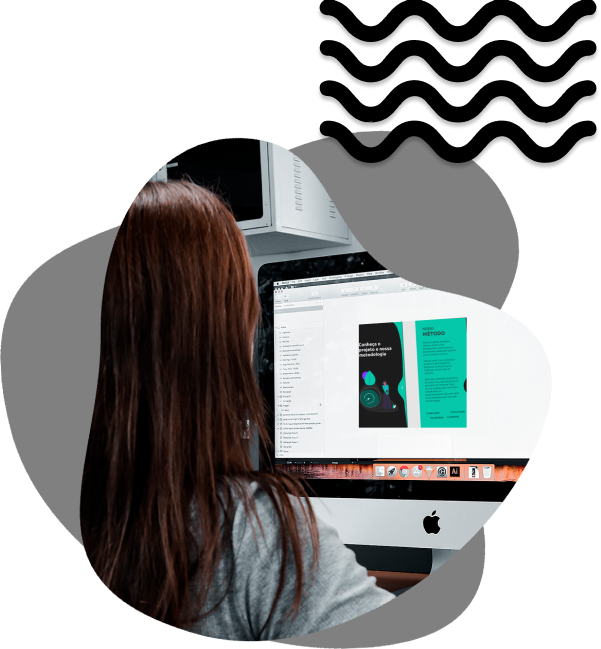
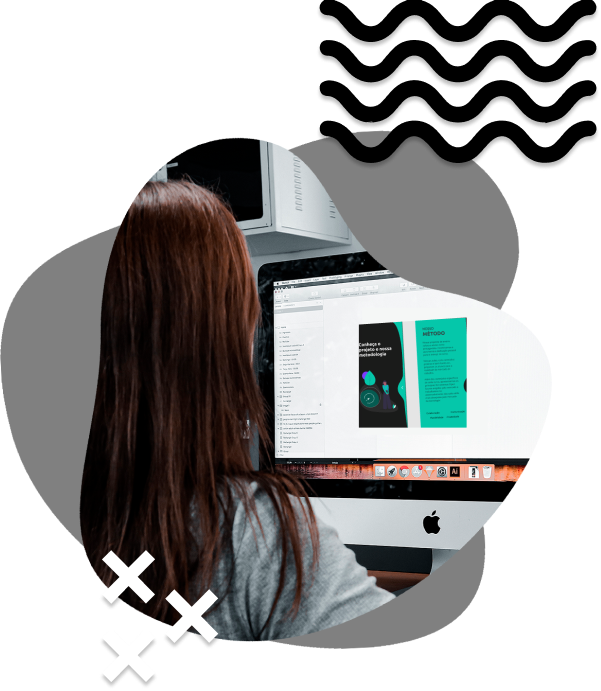
refac: styles section courses

diff --git a/src/components/modules/AboutUs/components/SectionDesign/SectionDesignStyled.tsx b/src/components/modules/AboutUs/components/SectionDesign/SectionDesignStyled.tsx
@@ -1,0 +1,99 @@
+import styled from "styled-components";
+import media from "styled-media-query";
+
+interface imgProps {
+  rightPosition?: boolean;
+  leftPosition?: boolean;
+}
+
+export const SectionDesign = styled.div`
+  position: relative;
+  display: flex;
+  flex-direction: column;
+  align-items: flex-start;
+  ${media.greaterThan("medium")`
+    display: grid;
+    grid-template-columns: 1fr 1fr;
+    grid-template-rows: 300px;
+  `}
+`;
+
+export const TextContentWrapper = styled.div`
+  max-width: 580px;
+  padding: 0 20px;
+  ${media.lessThan("medium")`
+    padding-top: 50px;
+  `}
+  ${media.greaterThan("medium")`
+    padding-left: 70px;
+    font-size: 20px;
+  `}
+`;
+
+export const SectionTitle = styled.h2`
+  font-family: Ubuntu;
+  font-weight: bold;
+  font-size: 32px;
+  line-height: 29px;
+  color: #3c3c3c;
+`;
+
+export const SectionDescription = styled.p`
+  font-size: 16px;
+  line-height: 23px;
+  color: #3c3c3c;
+  padding: 8px 0 40px;
+  z-index: 2;
+  ${media.greaterThan("medium")`
+    padding: 8px 0px;
+    font-size: 20px;
+  `}
+`;
+
+export const ImageWrapper = styled.div<imgProps>`
+  position: relative;
+  width: 100%;
+  display: flex;
+  @media (max-width: 768px) {
+    justify-content: ${(props) => (props.leftPosition && "flex-start")};
+  }
+
+  ${media.greaterThan("medium")`
+    justify-content: flex-end;
+    max-height: 300px;
+  `}
+  ${media.lessThan("large")`
+    justify-content: flex-start;
+  `}
+`;
+
+export const DesignImage = styled.img<imgProps>`
+  height: auto;
+  z-index: 2;
+  position: relative;
+  ${media.lessThan("small")`
+    width: 100%;
+    left: 0px;
+  `}
+  ${media.lessThan("medium")`
+    max-width: 380px;
+  `}
+  ${media.greaterThan("medium")`
+    top: -110px;
+    max-width: 400px;
+    height: 431px;
+  `}
+
+  ${media.greaterThan("large")`
+    top: -186px;
+    width: 596px;
+    height: 518px;
+  `}
+`;
+
+export const CheksClose = styled.img`
+  position: absolute;
+  bottom: -37px;
+  left: 0px;
+  z-index: 2;
+`;

diff --git a/src/components/modules/AboutUs/components/SectionDev/SectionDevStyled.tsx b/src/components/modules/AboutUs/components/SectionDev/SectionDevStyled.tsx
@@ -1,0 +1,85 @@
+import styled from "styled-components";
+import media from "styled-media-query";
+
+interface imgProps {
+  rightPosition?: boolean;
+  leftPosition?: boolean;
+}
+
+export const SectionDev = styled.div`
+  position: relative;
+  display: flex;
+  flex-direction: column;
+  align-items: flex-start;
+  ${media.greaterThan("medium")`
+    display: grid;
+    grid-template-columns: 1fr 1fr;
+    direction: rtl;
+  `}
+`;
+
+export const TextContentWrapper = styled.div`
+  max-width: 580px;
+  direction: initial;
+`;
+
+export const SectionTitle = styled.h2`
+  font-family: Ubuntu;
+  font-weight: bold;
+  font-size: 32px;
+  line-height: 29px;
+  color: #3c3c3c;
+  padding: 0 20px;
+`;
+
+export const SectionDescription = styled.p`
+  font-size: 16px;
+  line-height: 23px;
+  color: #3c3c3c;
+  padding: 8px 20px 0px;
+  z-index: 2;
+  ${media.lessThan("medium")`
+    padding: 8px 20px 20px;
+  `}
+  ${media.greaterThan("medium")`
+    font-size: 20px;
+  `}
+`;
+
+export const ImageWrapper = styled.div<imgProps>`
+  position: relative;
+  width: 100%;
+  display: flex;
+  @media (max-width: 768px) {
+    justify-content: ${(props) => (props.rightPosition && "flex-end")};
+    align-self: ${(props) => (props.rightPosition && "flex-end")};
+    overflow: ${(props) => props.rightPosition && "hidden"};
+  }
+
+  @media (max-width: 430px) {
+    max-width:100%;
+  }
+
+  ${media.lessThan("large")`
+    max-width: 400px;
+  `}
+`;
+
+export const DevImage = styled.img<imgProps>`
+  height: auto;
+  z-index: 2;
+  position: relative;
+  width: 100%;
+  bottom: 0;
+  ${media.lessThan("small")`
+    right: -70px;
+    width: 100%;
+  `}
+  ${media.greaterThan("medium")`
+    padding-right: 30px;
+    top: -50px;
+  `}
+  ${media.greaterThan("large")`
+    width: 500px;
+  `}
+`;

diff --git a/src/components/modules/AboutUs/components/SectionDesign/SectionDesign.tsx b/src/components/modules/AboutUs/components/SectionDesign/SectionDesign.tsx
@@ -1,6 +1,6 @@
 import React from "react";
-import * as S from "./SectionsStyled";
-import { getImage } from "../../../../shared/img";
+import * as S from "./SectionDesignStyled";
+import { getImage } from "../../../../../shared/img";
 
 const SectionDesign = () => (
   <S.SectionDesign>
@@ -18,7 +18,6 @@ const SectionDesign = () => (
 
     <S.ImageWrapper leftPosition>
       <S.DesignImage src={getImage("imgDesign")} alt="imagem design" />
-      <S.CheksClose src={getImage("cheksClose")} />
     </S.ImageWrapper>
   </S.SectionDesign>
 );

diff --git a/src/components/modules/AboutUs/components/SectionDev/SectionDev.tsx b/src/components/modules/AboutUs/components/SectionDev/SectionDev.tsx
@@ -1,7 +1,7 @@
 import React, { useEffect } from "react";
 import { useInView } from "react-intersection-observer";
-import * as S from "./SectionsStyled";
-import { getImage } from "../../../../shared/img";
+import * as S from "./SectionDevStyled";
+import { getImage } from "../../../../../shared/img";
 
 const SectionDev: React.FC<{ setView: Function }> = ({ setView }) => {
   const [ref, inView] = useInView({

diff --git a/src/components/modules/AboutUs/AboutUsStyled.tsx b/src/components/modules/AboutUs/AboutUsStyled.tsx
@@ -9,7 +9,6 @@ interface IAbouteUsContainer {
 const AboutUsContainer = styled.div<IAbouteUsContainer>`
   display: flex;
   flex-direction: column;
-  min-height: 100vh;
   width: 100%;
   padding: 52px 0px 0px;
   position: relative;

diff --git a/src/components/modules/AboutUs/components/SectionDesign/index.ts b/src/components/modules/AboutUs/components/SectionDesign/index.ts
@@ -1,0 +1,1 @@
+export { default } from "./SectionDesign";

diff --git a/src/components/modules/AboutUs/components/SectionDev/index.ts b/src/components/modules/AboutUs/components/SectionDev/index.ts
@@ -1,0 +1,1 @@
+export { default } from "./SectionDev";
